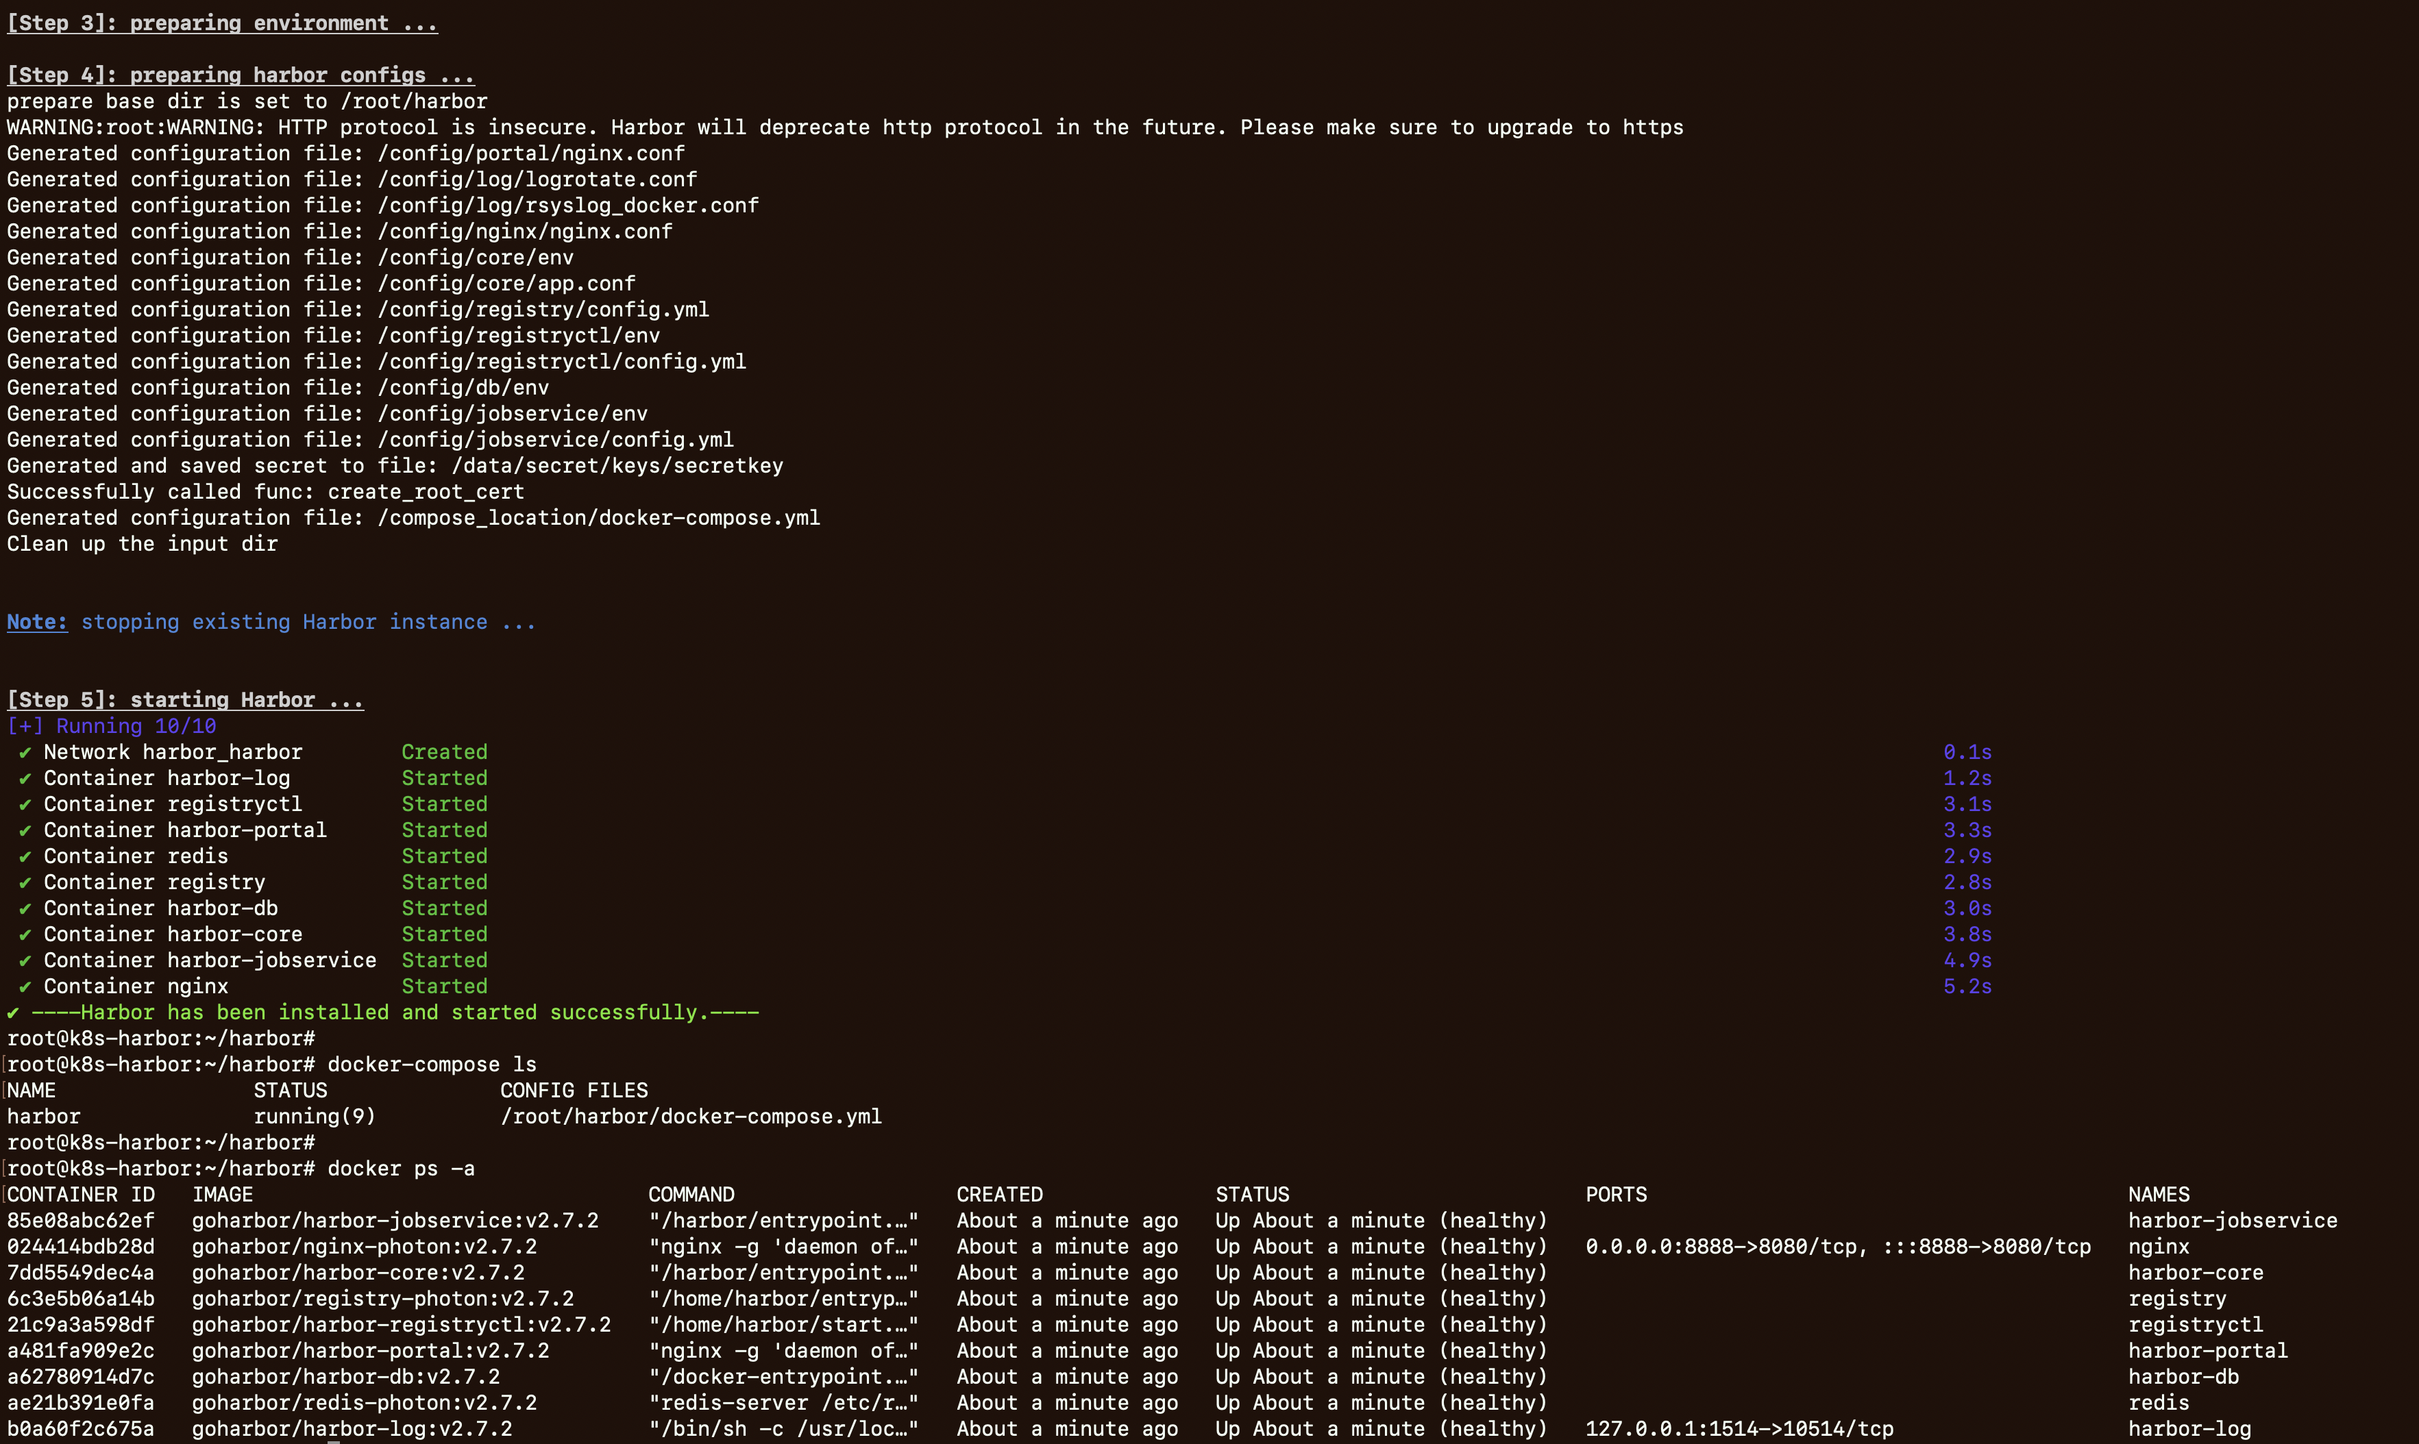
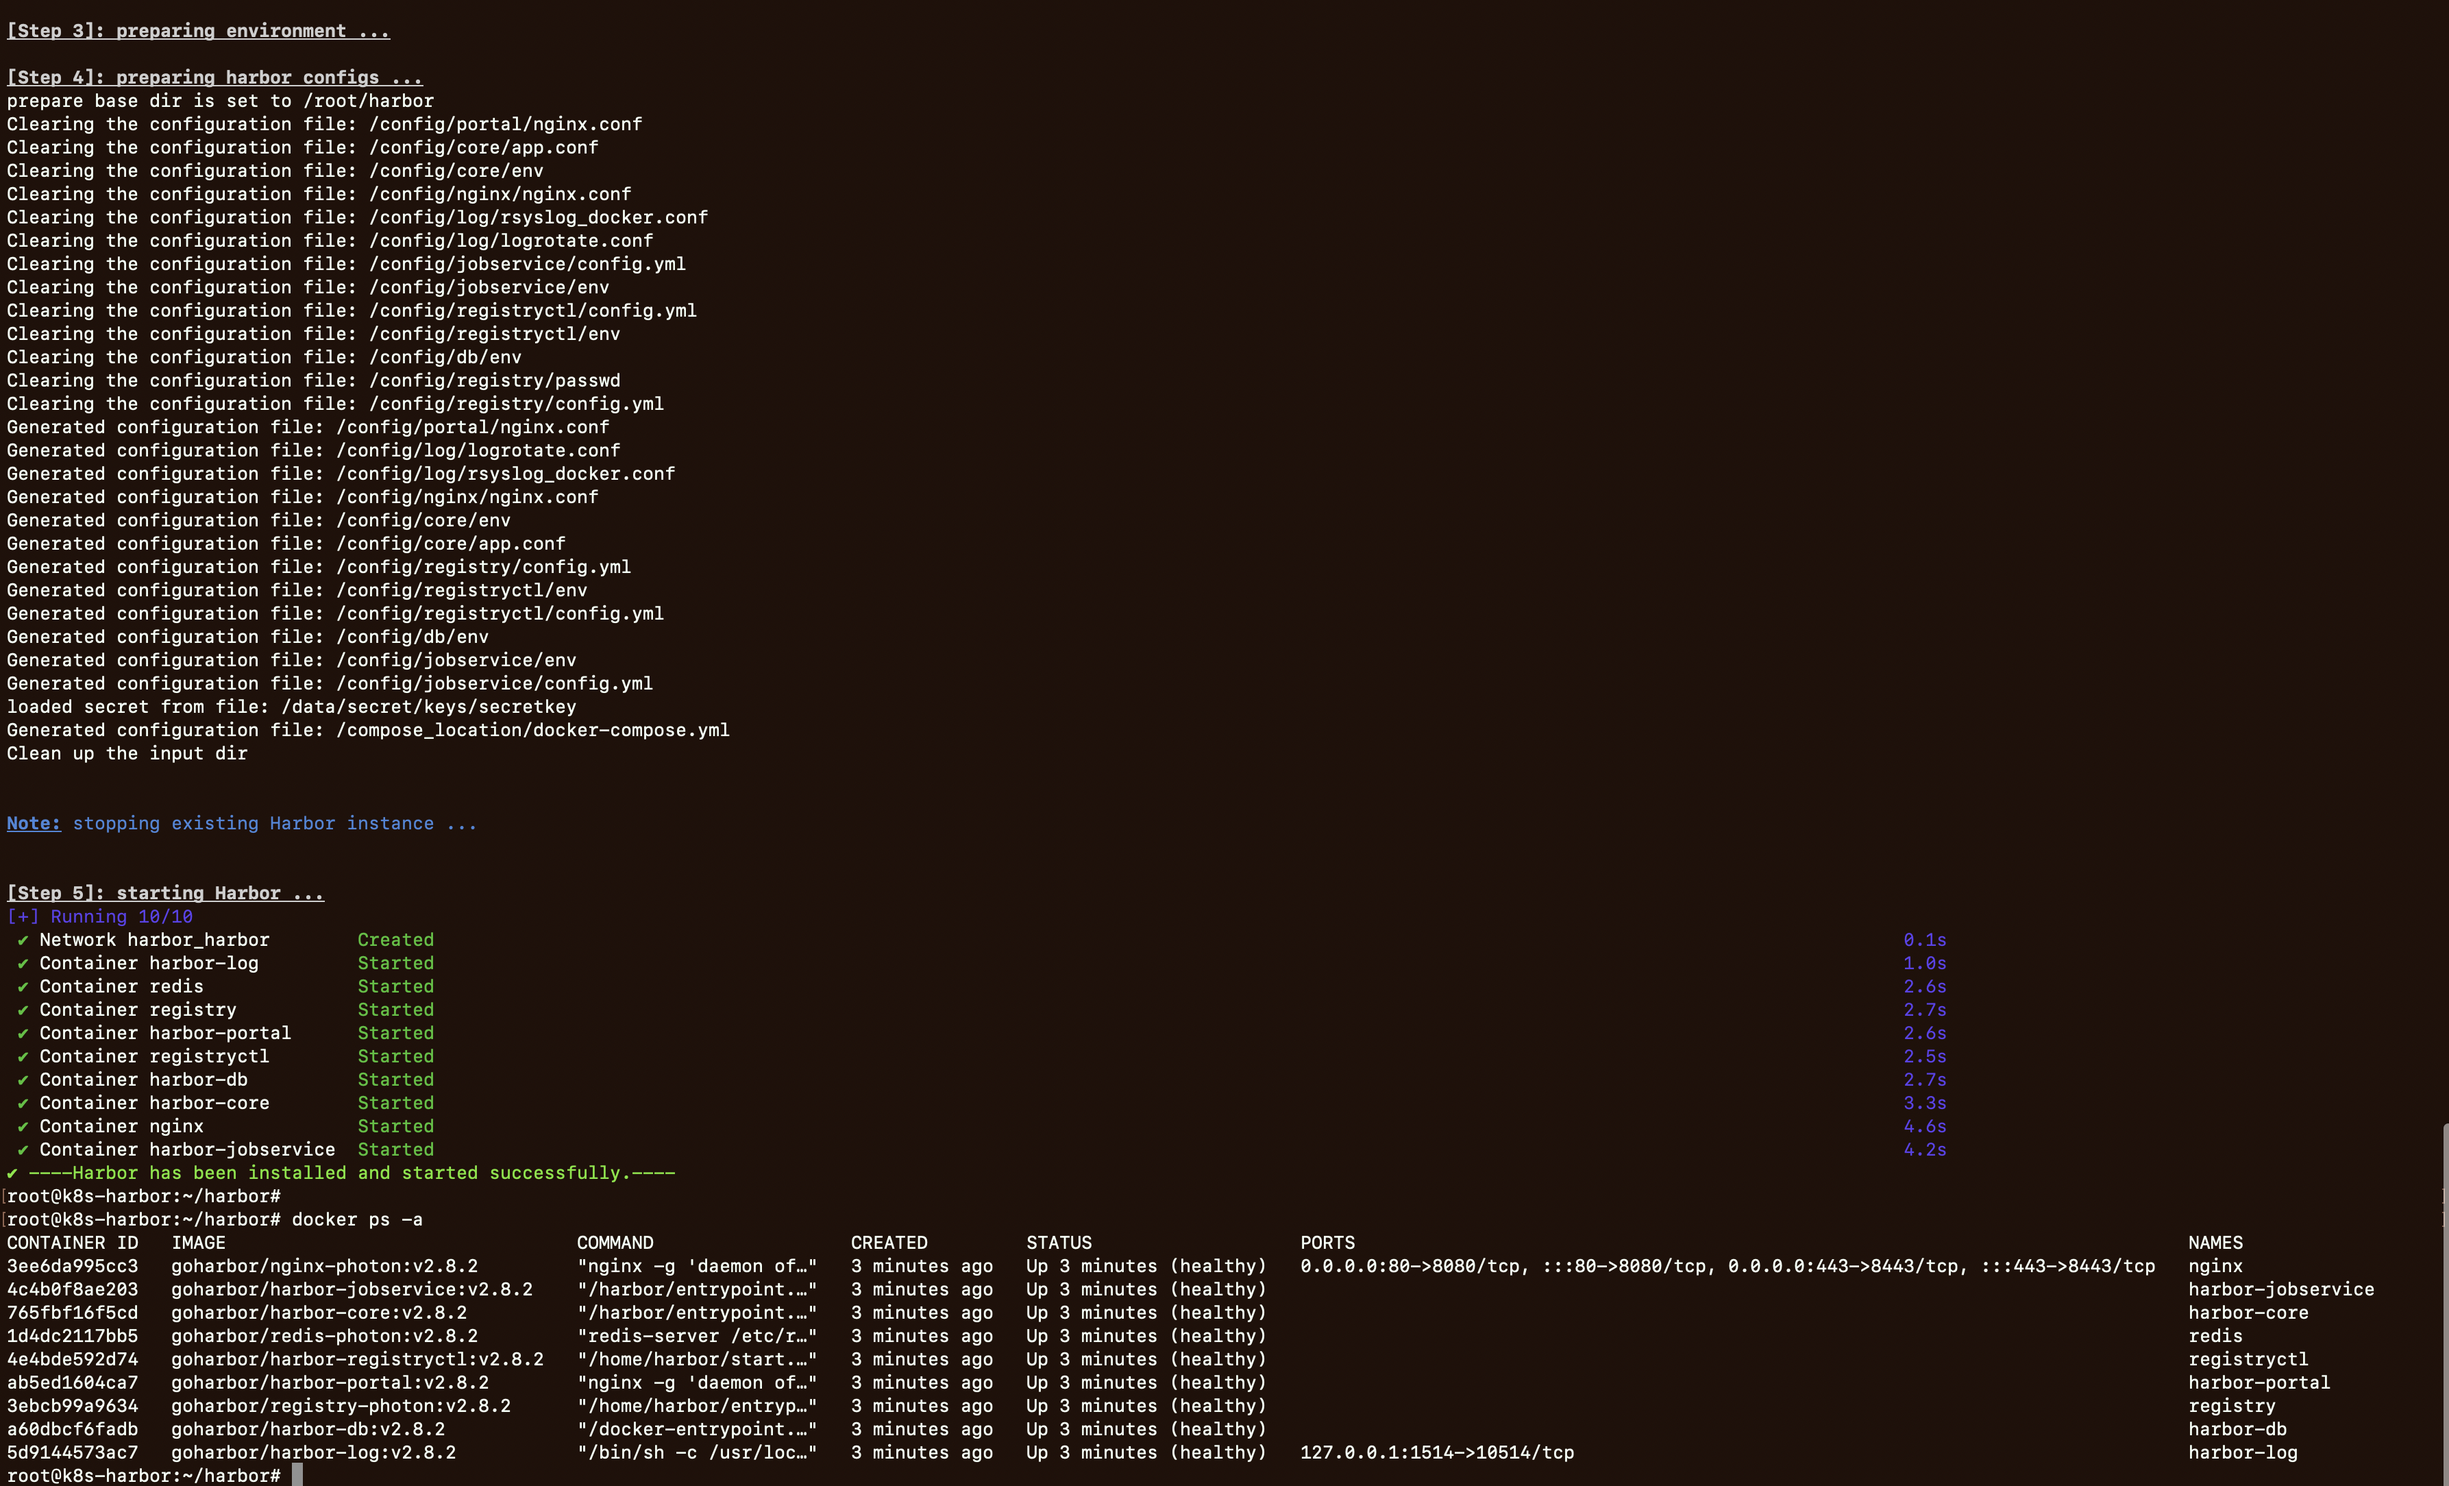
update  harbor安装指南

diff --git a/kubernetes/harbor安装指南/harbor安装和使用指南.md b/kubernetes/harbor安装指南/harbor安装和使用指南.md
@@ -1,5 +1,8 @@
 
 
+
+
+
 # 安装虚拟机
 
 
@@ -77,6 +80,10 @@ ip route get 192.168.57.101
 # 验证
 ping -c1 192.168.57.254
 ping -c1 192.168.57.1
+
+# 关闭swap
+swapoff -a
+sed -i '/ swap / s/^\(.*\)$/#\1/g' /etc/fstab
 ```
 
 
@@ -84,13 +91,9 @@ ping -c1 192.168.57.1
 	- ![attachments/harbor_vm_ip_setting_after_netplan.png](attachments/harbor_vm_ip_setting_after_netplan.png)
 
 
-# 安装docker
+## 安装docker
 
 ```bash
-# 关闭swap
-swapoff -a
-sed -i '/ swap / s/^\(.*\)$/#\1/g' /etc/fstab
-
 # install docker
 apt install -y docker.io
 systemctl enable docker
@@ -125,6 +128,8 @@ systemctl restart docker
 systemctl status docker
 journalctl -xeu docker 
 journalctl -f -u docker
+
+# k8s容器运行时containerd (安装docker时containerd也被安装了)
 systemctl status containerd
 journalctl -xeu  containerd 
 journalctl -f -u containerd
@@ -153,120 +158,184 @@ docker rm -f test
 
 
 
+## 启用HTTPS
+```bash
+# 参考文档: https://goharbor.io/docs/2.8.0/install-config/configure-https/
+# 其中,本实验中 yourdomain.com: k8strials.harbor.com
+# 其中,本实验中 hostname: k8s-harbor
 
+mkdir /root/pre-certs
+cd /root/pre-certs
+
+# Generate a CA certificate private key.
+openssl genrsa -out ca.key 4096
+# Generate the CA certificate.
+openssl req -x509 -new -nodes -sha512 -days 3650 \
+ -subj "/C=CN/ST=Beijing/L=Beijing/O=example/OU=Personal/CN=k8strials.harbor.com" \
+ -key ca.key \
+ -out ca.crt
+
+# Generate a Server private key.
+openssl genrsa -out k8strials.harbor.com.key 4096
+# Generate a Server  certificate signing request (CSR).
+openssl req -sha512 -new \
+    -subj "/C=CN/ST=Beijing/L=Beijing/O=example/OU=Personal/CN=k8strials.harbor.com" \
+    -key k8strials.harbor.com.key \
+    -out k8strials.harbor.com.csr
+
+# Generate an x509 v3 extension file.
+cat > v3.ext <<-EOF
+authorityKeyIdentifier=keyid,issuer
+basicConstraints=CA:FALSE
+keyUsage = digitalSignature, nonRepudiation, keyEncipherment, dataEncipherment
+extendedKeyUsage = serverAuth
+subjectAltName = @alt_names
+
+[alt_names]
+DNS.1=k8strials.harbor.com
+DNS.2=k8strials.harbor
+DNS.3=k8strials
+DNS.4=k8s-harbor
+EOF
+
+# Use the v3.ext file to generate a Server certificate for your Harbor host.
+openssl x509 -req -sha512 -days 3650 \
+    -extfile v3.ext \
+    -CA ca.crt -CAkey ca.key -CAcreateserial \
+    -in k8strials.harbor.com.csr \
+    -out k8strials.harbor.com.crt
+
+
+# Provide the Certificates to Harbor
+mkdir -p /data/cert/
+cp k8strials.harbor.com.crt /data/cert/
+cp k8strials.harbor.com.key /data/cert
+
+
+# Provide the Certificates to Docker
+mkdir -p /etc/docker/certs.d/k8strials.harbor.com/
+openssl x509 -inform PEM -in k8strials.harbor.com.crt -out k8strials.harbor.com.cert
+cp k8strials.harbor.com.cert /etc/docker/certs.d/k8strials.harbor.com/
+cp k8strials.harbor.com.key /etc/docker/certs.d/k8strials.harbor.com/
+cp ca.crt /etc/docker/certs.d/k8strials.harbor.com/
+systemctl restart docker
+```
+
+
+- 启用HTTPS涉及到的文件
+	- ![attachments/harbor_https_cert_prepared.png](attachments/harbor_https_cert_prepared.png)
+
+
+
+
+## 安装harbor
 ```bash
 # 下载
-wget https://github.com/goharbor/harbor/releases/download/v2.7.2/harbor-offline-installer-v2.7.2.tgz
+wget https://github.com/goharbor/harbor/releases/download/v2.8.2/harbor-offline-installer-v2.8.2.tgz
 
 # 解压
-tar -zxvf harbor-offline-installer-v2.7.2.tgz 
+tar -zxvf harbor-offline-installer-v2.8.2.tgz 
 cd harbor
 
 # 修改配置文件 
 cp harbor.yml.tmpl harbor.yml 
-# 修改harbor.yml: http.port调整为: 8888
-# 修改harbor.yml: hostname调整为:   
-# 注释:https related config
+# hostname: k8strials.harbor.com
+# https.certificate: /data/cert/k8strials.harbor.com.crt
+# https.private_key: /data/cert/k8strials.harbor.com.key
+diff harbor.yml harbor.yml.tmpl
+
+
+# 准备harbor 
+./prepare
 
 # 部署harbor 
 ./install.sh
 
 # 部署结果查看 
 docker ps -a
-# 浏览器打开: http://192.168.57.254:8888, 默认账号和密码: admin, Harbor12345
 
+# 本地浏览器无法解析域名: k8strials.harbor.com, 修改本地/etc/hosts
+echo "192.168.57.254 k8strials.harbor.com" >> /etc/hosts
+# 本地浏览器打开: k8strials.harbor.com, 默认账号和密码: admin, Harbor12345
 
-# 重启harbor(当前虚机重启后，需要重启harbor)
+# 如何重启harbor(当前虚机重启后，需要重启harbor)
 docker restart $(docker ps -a |grep goharbor|awk '{print $1}'  |xargs)
 ```
 
 
-- `harbor.yml`的配置
-	- ![attachments/habor_install_harbor_yml_updated.png](attachments/habor_install_harbor_yml_updated.png)
-- 部署结果
-	- ![attachments/harbor_install_result.png](attachments/harbor_install_result.png)
-- 浏览器预览
-	- ![attachments/harbor_install_chrome_view.png](attachments/harbor_install_chrome_view.png)
 
-
+- 安装harbor
+	- 配置的调整
+		- ![attachments/harbor_yml_config_diff.png](attachments/harbor_yml_config_diff.png)
+	- install的结果
+		- ![attachments/harbor_install_result.png](attachments/harbor_install_result.png)
+	- 浏览器预览
+		- ![attachments/harbor_install_view_by_browser.png](attachments/harbor_install_view_by_browser.png)
 
 
 # 使用harbor
 
+基于docker使用harbor
 
 ```bash
-# docker配置中/etc/docker/daemon.json添加: insecure-registries
-tee /etc/docker/daemon.json <<EOF
-{
-    "exec-opts":[
-        "native.cgroupdriver=systemd"
-    ],
-    "log-driver":"json-file",
-    "log-opts":{
-        "max-size":"100m"
-    },
-    "storage-driver":"overlay2",
-    "registry-mirrors":[
-        "https://b9pmyelo.mirror.aliyuncs.com",
-        "https://registry.docker-cn.com",
-        "http://hub-mirror.c.163.com",
-        "https://docker.mirrors.ustc.edu.cn"
-    ],
-    "insecure-registries":[
-        "192.168.57.254:8888"
-    ]
-}
-EOF
+# 虚拟机上
+echo "192.168.57.254 k8strials.harbor.com" >> /etc/hosts
 
-# 重启docker
-systemctl daemon-reload
-systemctl restart docker
-systemctl status docker
+# 准备镜像
+docker pull nginx:1.19
+docker tag nginx:1.19 k8strials.harbor.com/library/nginx:1.19
+
+# docker login: admin Harbor12345
+docker login k8strials.harbor.com
 
 
-# 重启harbor
-docker restart $(docker ps -a |grep goharbor|awk '{print $1}'  |xargs)
+
+# push镜像到harbor
+docker push k8strials.harbor.com/library/nginx:1.19
 ```
 
 
+- 基于docker使用harbor
+	- 登录和push
+		- ![attachments/docker_login_harbor_and_push.png](attachments/docker_login_harbor_and_push.png)
+	- 浏览器查看push结果
+		- ![attachments/docker_push_harbor_viewed_by_browser.png](attachments/docker_push_harbor_viewed_by_browser.png)
 
+
+基于containerd使用harbor
 ```bash
-# 拉取nginx镜像 
-docker pull nginx:1.19
+# 拉取镜像(拉取失败: 无权限)
+ctr images pull k8strials.harbor.com/library/nginx:1.19
 
-# tag镜像
-docker tag nginx:1.19 192.168.57.254:8888/library/nginx:1.19
-
-# docker登录
-docker login 192.168.57.254:8888
-
-# 推送到harbor中
-docker push 192.168.57.254:8888/library/nginx:1.19
-
-# 浏览器中查看: http://192.168.57.254:8888
-
-# 本地删除自定义的镜像
-docker rmi 192.168.57.254:8888/library/nginx:1.19
+# 导入harbor的证书
+cp /root/pre-certs/k8strials.harbor.com.crt /usr/local/share/ca-certificates/
+/usr/sbin/update-ca-certificates
 
 # 拉取镜像
-docker pull 192.168.57.254:8888/library/nginx:1.19
-docker images
+ctr images pull k8strials.harbor.com/library/nginx:1.19
 
-# 测试
-docker run -d -p 80:80 -p 443:443 --name nginx-test 192.168.57.254:8888/library/nginx:1.19
-
-# 浏览器中查看: http://192.168.57.254:80
-
-# 删除测试容器
-docker rm -f nginx-test
+# 查看拉取的镜像
+ctr images list -q
+ctr images list 
 ```
 
-- push镜像到harbor
-	- ![attachments/harbor_usage_push_image.png](attachments/harbor_usage_push_image.png)
-	- ![attachments/harbor_usage_view_push_image.png](attachments/harbor_usage_view_push_image.png)
-- 从harbor中pull镜像
-	- ![attachments/harbor_usage_pull_image.png](attachments/harbor_usage_pull_image.png)
-	- ![attachments/harbor_usage_view_pull_image.png](attachments/harbor_usage_view_pull_image.png)
-- 测试harbor镜像
-	- ![attachments/harbor_usage_test_nginx_image.png](attachments/harbor_usage_test_nginx_image.png)
-	- ![attachments/harbor_usage_view_test_nginx_image.png](attachments/harbor_usage_view_test_nginx_image.png)
+- 基于containerd使用harbor
+	- 使用containerd拉取镜像
+		- ![attachments/containerd_pull_from_harbor.png](attachments/containerd_pull_from_harbor.png)
+	- containerd使用registry的权限认证
+		- 不同版本的containerd的权限认证使用的配置方式不同
+		- 网上的配置资料比较混乱，新版本的containerd很可能无法使用
+		- 这个是本次实验中最大的坑
+		- 建议: 官方文档 + 实验
+
+
+
+# 参考资料
+
+
+- [harbor configure https](https://goharbor.io/docs/2.8.0/install-config/configure-https/)
+- [harbor troubleshoot](https://goharbor.io/docs/2.8.0/install-config/troubleshoot-installation/)
+- [harbor configure](https://goharbor.io/docs/2.8.0/install-config/configure-system-settings-cli/)
+- [containerd docs](https://github.com/containerd/containerd/tree/main/docs)
+- [containerd cert](https://stackoverflow.com/questions/73415766/how-to-skip-tls-cert-check-for-crictl-containerd-cr-while-pulling-the-images-f)
+- [containerd hosts config](https://github.com/containerd/containerd/blob/main/docs/hosts.md)
